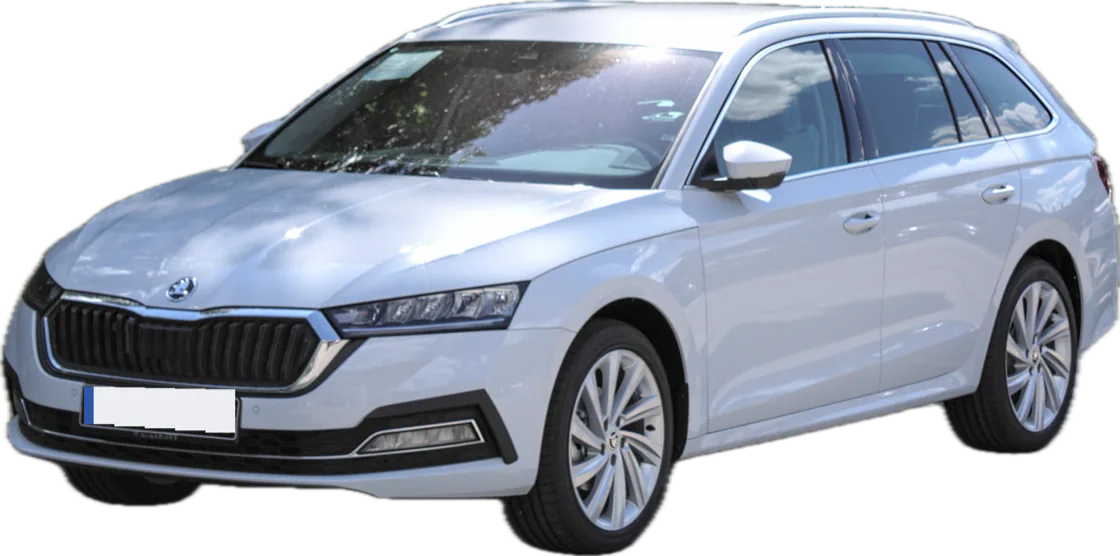
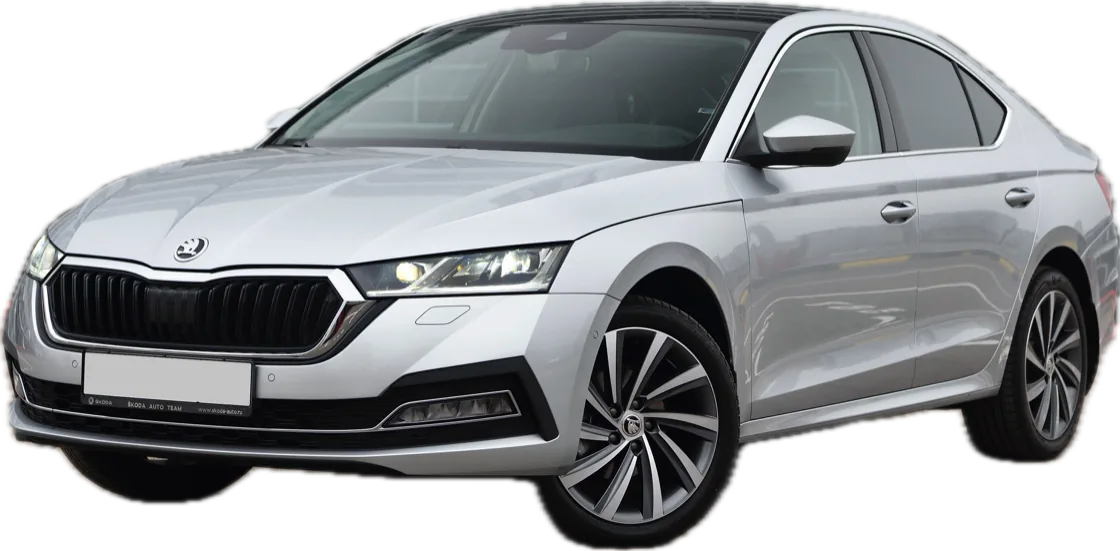
Update draft (4 changed, 0 removed)

diff --git a/index.html b/index.html
@@ -82,7 +82,7 @@ FINISH: unreviewed and undocumented is unfinished; this build ends with the fini
 <ul class="specs"><li><svg class="ico" aria-hidden="true" focusable="false"><use href="#i-cal"/></svg>2023</li><li><svg class="ico" aria-hidden="true" focusable="false"><use href="#i-gear"/></svg>Automatik</li><li><svg class="ico" aria-hidden="true" focusable="false"><use href="#i-fuel"/></svg>1.5 benzin</li></ul>
 <span class="spacer"></span><a class="btn" href="https://wa.me/381645121437?text=Zdravo%21%20Zanima%20me%20%C5%A0koda%20Scala%20%28od%2040%20%E2%82%AC%20dnevno%29.%20Termin%3A%20" target="_blank" rel="noopener" aria-label="Rezervišite Škoda Scala na WhatsApp-u"><svg class="ico ico-fill" aria-hidden="true" focusable="false"><use href="#i-wa"/></svg><span>Rezervišite</span></a></div>
 </li><li class="card">
-<div class="shot"><img class="" src="/del5-rent-a-car/assets/cars/octavia-560.webp" srcset="/del5-rent-a-car/assets/cars/octavia-560.webp 560w, /del5-rent-a-car/assets/cars/octavia-1120.webp 1120w" sizes="(max-width:640px) 92vw, (max-width:1080px) 46vw, 370px" width="1120" height="556" alt="Škoda Octavia, ilustrativna fotografija" loading="lazy" decoding="async"><p class="pricetag"><small>od</small><b>45 €</b><span>dnevno</span></p><span class="klass">Porodični</span></div>
+<div class="shot"><img class="" src="/del5-rent-a-car/assets/cars/octavia-560.webp" srcset="/del5-rent-a-car/assets/cars/octavia-560.webp 560w, /del5-rent-a-car/assets/cars/octavia-1120.webp 1120w" sizes="(max-width:640px) 92vw, (max-width:1080px) 46vw, 370px" width="1120" height="551" alt="Škoda Octavia, ilustrativna fotografija" loading="lazy" decoding="async"><p class="pricetag"><small>od</small><b>45 €</b><span>dnevno</span></p><span class="klass">Porodični</span></div>
 <div class="card-body"><h3>Škoda Octavia</h3><p class="line">Mesta za celu porodicu i prtljag.</p>
 <ul class="specs"><li><svg class="ico" aria-hidden="true" focusable="false"><use href="#i-cal"/></svg>2023</li><li><svg class="ico" aria-hidden="true" focusable="false"><use href="#i-gear"/></svg>Manuelni</li><li><svg class="ico" aria-hidden="true" focusable="false"><use href="#i-fuel"/></svg>1.5 benzin</li></ul>
 <span class="spacer"></span><a class="btn" href="https://wa.me/381645121437?text=Zdravo%21%20Zanima%20me%20%C5%A0koda%20Octavia%20%28od%2045%20%E2%82%AC%20dnevno%29.%20Termin%3A%20" target="_blank" rel="noopener" aria-label="Rezervišite Škoda Octavia na WhatsApp-u"><svg class="ico ico-fill" aria-hidden="true" focusable="false"><use href="#i-wa"/></svg><span>Rezervišite</span></a></div>
@@ -129,7 +129,7 @@ FINISH: unreviewed and undocumented is unfinished; this build ends with the fini
 <div><svg class="logo" xmlns="http://www.w3.org/2000/svg" viewBox="-4 -26 400 186" role="img" aria-label="Del5 Rent a Car"><g fill="none" stroke="#FFFFFF" stroke-width="28" stroke-linecap="round" stroke-linejoin="round"><circle cx="50" cy="95" r="36"/><path d="M86 14V131"/><path d="M128 95H200A36 36 0 1 0 178.6 127.9"/><path d="M242 14V131"/></g><g transform="translate(276 -15) rotate(8 52 80)"><path fill-rule="evenodd" fill="#FFC629" d="M28 0H76A28 28 0 0 1 104 28V132A28 28 0 0 1 76 160H28A28 28 0 0 1 0 132V28A28 28 0 0 1 28 0ZM43.5 17H60.5A4.5 4.5 0 0 1 60.5 26H43.5A4.5 4.5 0 0 1 43.5 17Z"/><path d="M53 11H16V40A24 24 0 1 1 11 77.8" transform="translate(20 46)" fill="none" stroke="#0E1726" stroke-width="22" stroke-linecap="round" stroke-linejoin="round"/></g></svg><p class="tag">Rent a car u Beogradu · Aerodrom · Grad · Dostava na adresu</p></div>
 <div><h2>Kontakt</h2><ul><li><a href="tel:+381645121437">064 512 14 37</a></li><li><a href="https://wa.me/381645121437?text=Zdravo%21%20Zanima%20me%20najam." target="_blank" rel="noopener">WhatsApp</a></li><li>Šumatovačka 124, Beograd</li></ul></div>
 <div><h2>Stranice</h2><ul><li><a href="#vozila">Vozila</a></li><li><a href="#dostava">Dostava</a></li><li><a href="#kako-iznajmiti">Kako iznajmiti</a></li><li><a href="/del5-rent-a-car/en/" hreflang="en">English</a></li></ul></div>
-<details><summary>Fotografije vozila</summary><p>Ilustrativne fotografije sa Wikimedia Commons; pozadina je uklonjena, a tablice prekrivene.</p><ul><li>Škoda Fabia: <a href="https://commons.wikimedia.org/wiki/File:%C5%A0koda_Fabia_IV_1X7A7110.jpg">Alexander-93</a>, <a href="https://creativecommons.org/licenses/by-sa/4.0">CC BY-SA 4.0</a></li><li>Škoda Scala: <a href="https://commons.wikimedia.org/wiki/File:Skoda_Scala_1.5_TSI_Tour_(Facelift)_%E2%80%93_f_14022026.jpg">© M 93</a>, <a href="https://creativecommons.org/licenses/by-sa/3.0/de/deed.en">CC BY-SA 3.0 de</a></li><li>Škoda Octavia: <a href="https://commons.wikimedia.org/wiki/File:Skoda_Octavia_IV_Combi_IMG_3099.jpg">Alexander Migl</a>, <a href="https://creativecommons.org/licenses/by-sa/4.0">CC BY-SA 4.0</a></li><li>Toyota Yaris Cross: <a href="https://commons.wikimedia.org/wiki/File:Toyota_Yaris_Cross_1.5_VVT-iE_Team_Deutschland_%E2%80%93_f_24092022.jpg">© M 93</a>, <a href="https://creativecommons.org/licenses/by-sa/3.0/de/deed.en">CC BY-SA 3.0 de</a></li><li>Škoda Superb: <a href="https://commons.wikimedia.org/wiki/File:Skoda_Superb_L%26K_(IV)_%E2%80%93_f_12042026.jpg">© M 93</a>, <a href="https://creativecommons.org/licenses/by-sa/3.0/de/deed.en">CC BY-SA 3.0 de</a></li></ul></details>
+<details><summary>Fotografije vozila</summary><p>Ilustrativne fotografije sa Wikimedia Commons; pozadina je uklonjena, a tablice prekrivene.</p><ul><li>Škoda Fabia: <a href="https://commons.wikimedia.org/wiki/File:%C5%A0koda_Fabia_IV_1X7A7110.jpg">Alexander-93</a>, <a href="https://creativecommons.org/licenses/by-sa/4.0">CC BY-SA 4.0</a></li><li>Škoda Scala: <a href="https://commons.wikimedia.org/wiki/File:Skoda_Scala_1.5_TSI_Tour_(Facelift)_%E2%80%93_f_14022026.jpg">© M 93</a>, <a href="https://creativecommons.org/licenses/by-sa/3.0/de/deed.en">CC BY-SA 3.0 de</a></li><li>Škoda Octavia: <a href="https://commons.wikimedia.org/wiki/File:Skoda_Octavia_IV_liftback.jpg">Mike-fiesta</a>, <a href="https://creativecommons.org/licenses/by-sa/4.0">CC BY-SA 4.0</a></li><li>Toyota Yaris Cross: <a href="https://commons.wikimedia.org/wiki/File:Toyota_Yaris_Cross_1.5_VVT-iE_Team_Deutschland_%E2%80%93_f_24092022.jpg">© M 93</a>, <a href="https://creativecommons.org/licenses/by-sa/3.0/de/deed.en">CC BY-SA 3.0 de</a></li><li>Škoda Superb: <a href="https://commons.wikimedia.org/wiki/File:Skoda_Superb_L%26K_(IV)_%E2%80%93_f_12042026.jpg">© M 93</a>, <a href="https://creativecommons.org/licenses/by-sa/3.0/de/deed.en">CC BY-SA 3.0 de</a></li></ul></details>
 <p class="rights">© 2026 Del5 Rent a Car</p>
 </div></footer>
 

diff --git a/en/index.html b/en/index.html
@@ -82,7 +82,7 @@ FINISH: unreviewed and undocumented is unfinished; this build ends with the fini
 <ul class="specs"><li><svg class="ico" aria-hidden="true" focusable="false"><use href="#i-cal"/></svg>2023</li><li><svg class="ico" aria-hidden="true" focusable="false"><use href="#i-gear"/></svg>Automatic</li><li><svg class="ico" aria-hidden="true" focusable="false"><use href="#i-fuel"/></svg>1.5 petrol</li></ul>
 <span class="spacer"></span><a class="btn" href="https://wa.me/381645121437?text=Hello%21%20I%27m%20interested%20in%20the%20%C5%A0koda%20Scala%20%28from%20%E2%82%AC40%20a%20day%29.%20Dates%3A%20" target="_blank" rel="noopener" aria-label="Book Škoda Scala on WhatsApp"><svg class="ico ico-fill" aria-hidden="true" focusable="false"><use href="#i-wa"/></svg><span>Book</span></a></div>
 </li><li class="card">
-<div class="shot"><img class="" src="/del5-rent-a-car/assets/cars/octavia-560.webp" srcset="/del5-rent-a-car/assets/cars/octavia-560.webp 560w, /del5-rent-a-car/assets/cars/octavia-1120.webp 1120w" sizes="(max-width:640px) 92vw, (max-width:1080px) 46vw, 370px" width="1120" height="556" alt="Škoda Octavia, illustrative photo" loading="lazy" decoding="async"><p class="pricetag"><small>from</small><b>45 €</b><span>a day</span></p><span class="klass">Family</span></div>
+<div class="shot"><img class="" src="/del5-rent-a-car/assets/cars/octavia-560.webp" srcset="/del5-rent-a-car/assets/cars/octavia-560.webp 560w, /del5-rent-a-car/assets/cars/octavia-1120.webp 1120w" sizes="(max-width:640px) 92vw, (max-width:1080px) 46vw, 370px" width="1120" height="551" alt="Škoda Octavia, illustrative photo" loading="lazy" decoding="async"><p class="pricetag"><small>from</small><b>45 €</b><span>a day</span></p><span class="klass">Family</span></div>
 <div class="card-body"><h3>Škoda Octavia</h3><p class="line">Room for the whole family and the luggage.</p>
 <ul class="specs"><li><svg class="ico" aria-hidden="true" focusable="false"><use href="#i-cal"/></svg>2023</li><li><svg class="ico" aria-hidden="true" focusable="false"><use href="#i-gear"/></svg>Manual</li><li><svg class="ico" aria-hidden="true" focusable="false"><use href="#i-fuel"/></svg>1.5 petrol</li></ul>
 <span class="spacer"></span><a class="btn" href="https://wa.me/381645121437?text=Hello%21%20I%27m%20interested%20in%20the%20%C5%A0koda%20Octavia%20%28from%20%E2%82%AC45%20a%20day%29.%20Dates%3A%20" target="_blank" rel="noopener" aria-label="Book Škoda Octavia on WhatsApp"><svg class="ico ico-fill" aria-hidden="true" focusable="false"><use href="#i-wa"/></svg><span>Book</span></a></div>
@@ -129,7 +129,7 @@ FINISH: unreviewed and undocumented is unfinished; this build ends with the fini
 <div><svg class="logo" xmlns="http://www.w3.org/2000/svg" viewBox="-4 -26 400 186" role="img" aria-label="Del5 Rent a Car"><g fill="none" stroke="#FFFFFF" stroke-width="28" stroke-linecap="round" stroke-linejoin="round"><circle cx="50" cy="95" r="36"/><path d="M86 14V131"/><path d="M128 95H200A36 36 0 1 0 178.6 127.9"/><path d="M242 14V131"/></g><g transform="translate(276 -15) rotate(8 52 80)"><path fill-rule="evenodd" fill="#FFC629" d="M28 0H76A28 28 0 0 1 104 28V132A28 28 0 0 1 76 160H28A28 28 0 0 1 0 132V28A28 28 0 0 1 28 0ZM43.5 17H60.5A4.5 4.5 0 0 1 60.5 26H43.5A4.5 4.5 0 0 1 43.5 17Z"/><path d="M53 11H16V40A24 24 0 1 1 11 77.8" transform="translate(20 46)" fill="none" stroke="#0E1726" stroke-width="22" stroke-linecap="round" stroke-linejoin="round"/></g></svg><p class="tag">Car rental in Belgrade · Airport · City · Door delivery</p></div>
 <div><h2>Contact</h2><ul><li><a href="tel:+381645121437">+381 64 512 1437</a></li><li><a href="https://wa.me/381645121437?text=Hello%21%20I%27d%20like%20to%20rent%20a%20car." target="_blank" rel="noopener">WhatsApp</a></li><li>Šumatovačka 124, Belgrade</li></ul></div>
 <div><h2>Pages</h2><ul><li><a href="#cars">Cars</a></li><li><a href="#delivery">Delivery</a></li><li><a href="#how-to-rent">How to rent</a></li><li><a href="/del5-rent-a-car/" hreflang="sr">Srpski</a></li></ul></div>
-<details><summary>Vehicle photos</summary><p>Illustrative photos from Wikimedia Commons; backgrounds removed, number plates covered.</p><ul><li>Škoda Fabia: <a href="https://commons.wikimedia.org/wiki/File:%C5%A0koda_Fabia_IV_1X7A7110.jpg">Alexander-93</a>, <a href="https://creativecommons.org/licenses/by-sa/4.0">CC BY-SA 4.0</a></li><li>Škoda Scala: <a href="https://commons.wikimedia.org/wiki/File:Skoda_Scala_1.5_TSI_Tour_(Facelift)_%E2%80%93_f_14022026.jpg">© M 93</a>, <a href="https://creativecommons.org/licenses/by-sa/3.0/de/deed.en">CC BY-SA 3.0 de</a></li><li>Škoda Octavia: <a href="https://commons.wikimedia.org/wiki/File:Skoda_Octavia_IV_Combi_IMG_3099.jpg">Alexander Migl</a>, <a href="https://creativecommons.org/licenses/by-sa/4.0">CC BY-SA 4.0</a></li><li>Toyota Yaris Cross: <a href="https://commons.wikimedia.org/wiki/File:Toyota_Yaris_Cross_1.5_VVT-iE_Team_Deutschland_%E2%80%93_f_24092022.jpg">© M 93</a>, <a href="https://creativecommons.org/licenses/by-sa/3.0/de/deed.en">CC BY-SA 3.0 de</a></li><li>Škoda Superb: <a href="https://commons.wikimedia.org/wiki/File:Skoda_Superb_L%26K_(IV)_%E2%80%93_f_12042026.jpg">© M 93</a>, <a href="https://creativecommons.org/licenses/by-sa/3.0/de/deed.en">CC BY-SA 3.0 de</a></li></ul></details>
+<details><summary>Vehicle photos</summary><p>Illustrative photos from Wikimedia Commons; backgrounds removed, number plates covered.</p><ul><li>Škoda Fabia: <a href="https://commons.wikimedia.org/wiki/File:%C5%A0koda_Fabia_IV_1X7A7110.jpg">Alexander-93</a>, <a href="https://creativecommons.org/licenses/by-sa/4.0">CC BY-SA 4.0</a></li><li>Škoda Scala: <a href="https://commons.wikimedia.org/wiki/File:Skoda_Scala_1.5_TSI_Tour_(Facelift)_%E2%80%93_f_14022026.jpg">© M 93</a>, <a href="https://creativecommons.org/licenses/by-sa/3.0/de/deed.en">CC BY-SA 3.0 de</a></li><li>Škoda Octavia: <a href="https://commons.wikimedia.org/wiki/File:Skoda_Octavia_IV_liftback.jpg">Mike-fiesta</a>, <a href="https://creativecommons.org/licenses/by-sa/4.0">CC BY-SA 4.0</a></li><li>Toyota Yaris Cross: <a href="https://commons.wikimedia.org/wiki/File:Toyota_Yaris_Cross_1.5_VVT-iE_Team_Deutschland_%E2%80%93_f_24092022.jpg">© M 93</a>, <a href="https://creativecommons.org/licenses/by-sa/3.0/de/deed.en">CC BY-SA 3.0 de</a></li><li>Škoda Superb: <a href="https://commons.wikimedia.org/wiki/File:Skoda_Superb_L%26K_(IV)_%E2%80%93_f_12042026.jpg">© M 93</a>, <a href="https://creativecommons.org/licenses/by-sa/3.0/de/deed.en">CC BY-SA 3.0 de</a></li></ul></details>
 <p class="rights">© 2026 Del5 Rent a Car</p>
 </div></footer>
 
